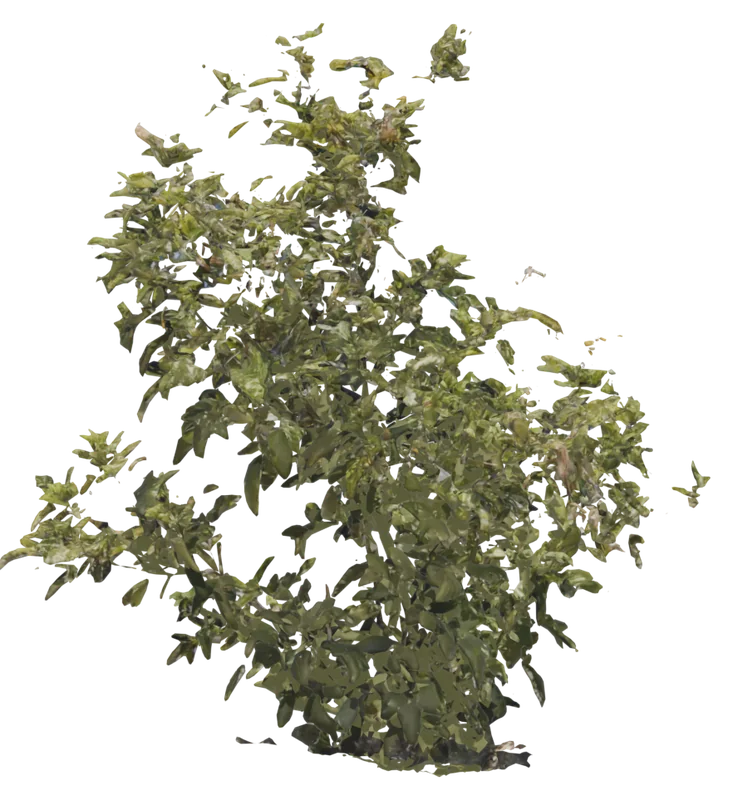
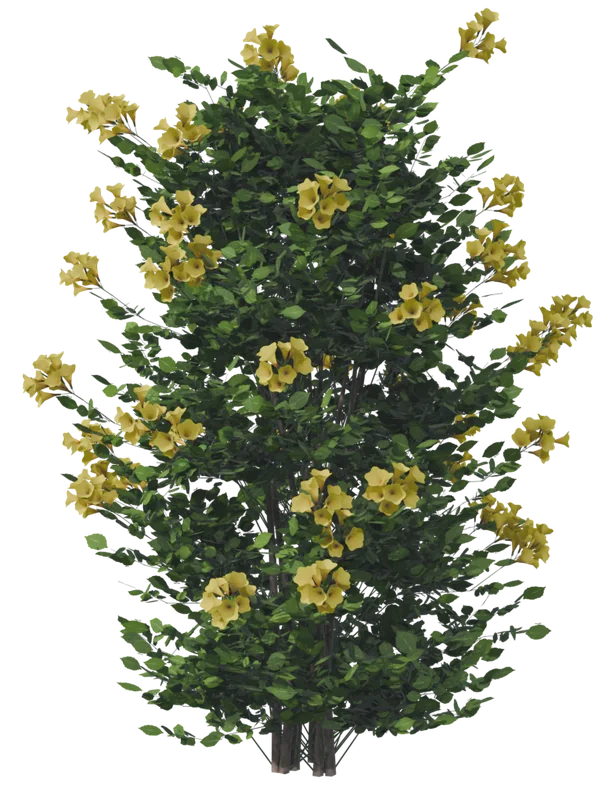
feat: catalog follows the V1 trim — eight plants off the shelves
The app cut Desert Willow, Desert Ironwood, Leatherleaf Acacia, Mexican Fan
Palm, Saguaro, Twin-flowered Agave, Flat Boulder and Gray Boulder for its
App Store build, so the site stops showing them. Their tile renders and
preview cards are deleted with them.

That left two shelves at twelve, under the thirteen a row needs to loop
without visibly repeating, so Madagascar Palm moves to lead the cactus
shelf where the Saguaro was and Yellow Lantana joins the third. 13/13/13.

The export also refreshed the Yellow Bells card: the app's thumbnail moved
to the Sundance model on Sep 28, after the site last exported.

diff --git a/index.html b/index.html
@@ -649,29 +649,23 @@
       <div class="catalog-row" data-marquee data-dir="left" data-speed="40">
         <ul class="catalog-track" data-marquee-track>
           <li class="cat-tile" data-plant="blue-palo-verde"><span class="cat-shot"><img src="assets/catalog/blue-palo-verde.webp" alt="Blue Palo Verde" width="320" height="320" loading="lazy" decoding="async" /></span><span class="cat-name">Blue Palo Verde</span><span class="cat-kind">Tree</span><button type="button" class="cat-more" aria-label="About Blue Palo Verde"></button></li>
-          <li class="cat-tile" data-plant="desert-ironwood"><span class="cat-shot"><img src="assets/catalog/desert-ironwood.webp" alt="Desert Ironwood" width="320" height="320" loading="lazy" decoding="async" /></span><span class="cat-name">Desert Ironwood</span><span class="cat-kind">Tree</span><button type="button" class="cat-more" aria-label="About Desert Ironwood"></button></li>
           <li class="cat-tile" data-plant="honey-mesquite"><span class="cat-shot"><img src="assets/catalog/honey-mesquite.webp" alt="Honey Mesquite" width="320" height="320" loading="lazy" decoding="async" /></span><span class="cat-name">Honey Mesquite</span><span class="cat-kind">Tree</span><button type="button" class="cat-more" aria-label="About Honey Mesquite"></button></li>
           <li class="cat-tile" data-plant="path-light"><span class="cat-shot"><img src="assets/catalog/path-light.webp" alt="Path Light" width="320" height="320" loading="lazy" decoding="async" /></span><span class="cat-name">Path Light</span><span class="cat-kind">Lighting</span><button type="button" class="cat-more" aria-label="About Path Light"></button></li>
-          <li class="cat-tile" data-plant="desert-willow"><span class="cat-shot"><img src="assets/catalog/desert-willow.webp" alt="Desert Willow" width="320" height="320" loading="lazy" decoding="async" /></span><span class="cat-name">Desert Willow</span><span class="cat-kind">Tree</span><button type="button" class="cat-more" aria-label="About Desert Willow"></button></li>
           <li class="cat-tile" data-plant="texas-ebony"><span class="cat-shot"><img src="assets/catalog/texas-ebony.webp" alt="Texas Ebony" width="320" height="320" loading="lazy" decoding="async" /></span><span class="cat-name">Texas Ebony</span><span class="cat-kind">Tree</span><button type="button" class="cat-more" aria-label="About Texas Ebony"></button></li>
           <li class="cat-tile" data-plant="mulga"><span class="cat-shot"><img src="assets/catalog/mulga.webp" alt="Mulga" width="320" height="320" loading="lazy" decoding="async" /><span class="cat-new">New</span></span><span class="cat-name">Mulga</span><span class="cat-kind">Tree</span><button type="button" class="cat-more" aria-label="About Mulga"></button></li>
           <li class="cat-tile" data-plant="chaste-tree"><span class="cat-shot"><img src="assets/catalog/chaste-tree.webp" alt="Chaste Tree" width="320" height="320" loading="lazy" decoding="async" /></span><span class="cat-name">Chaste Tree</span><span class="cat-kind">Tree</span><button type="button" class="cat-more" aria-label="About Chaste Tree"></button></li>
           <li class="cat-tile" data-plant="orange-tree"><span class="cat-shot"><img src="assets/catalog/orange-tree.webp" alt="Orange Tree" width="320" height="320" loading="lazy" decoding="async" /></span><span class="cat-name">Orange Tree</span><span class="cat-kind">Tree</span><button type="button" class="cat-more" aria-label="About Orange Tree"></button></li>
-          <li class="cat-tile" data-plant="leatherleaf-acacia"><span class="cat-shot"><img src="assets/catalog/leatherleaf-acacia.webp" alt="Leatherleaf Acacia" width="320" height="320" loading="lazy" decoding="async" /></span><span class="cat-name">Leatherleaf Acacia</span><span class="cat-kind">Shrub</span><button type="button" class="cat-more" aria-label="About Leatherleaf Acacia"></button></li>
           <li class="cat-tile" data-plant="arizona-boulder"><span class="cat-shot"><img src="assets/catalog/az-boulder.webp" alt="Arizona Boulder" width="320" height="320" loading="lazy" decoding="async" /></span><span class="cat-name">Arizona Boulder</span><span class="cat-kind">Boulder</span><button type="button" class="cat-more" aria-label="About Arizona Boulder"></button></li>
-          <li class="cat-tile" data-plant="mexican-fan-palm"><span class="cat-shot"><img src="assets/catalog/mexican-fan-palm.webp" alt="Mexican Fan Palm" width="320" height="320" loading="lazy" decoding="async" /></span><span class="cat-name">Mexican Fan Palm</span><span class="cat-kind">Palm</span><button type="button" class="cat-more" aria-label="About Mexican Fan Palm"></button></li>
-          <li class="cat-tile" data-plant="madagascar-palm"><span class="cat-shot"><img src="assets/catalog/madagascar-palm.webp" alt="Madagascar Palm" width="320" height="320" loading="lazy" decoding="async" /></span><span class="cat-name">Madagascar Palm</span><span class="cat-kind">Palm</span><button type="button" class="cat-more" aria-label="About Madagascar Palm"></button></li>
           <li class="cat-tile" data-plant="texas-sage"><span class="cat-shot"><img src="assets/catalog/texas-sage.webp" alt="Texas Sage" width="320" height="320" loading="lazy" decoding="async" /></span><span class="cat-name">Texas Sage</span><span class="cat-kind">Shrub</span><button type="button" class="cat-more" aria-label="About Texas Sage"></button></li>
           <li class="cat-tile" data-plant="green-hopseed"><span class="cat-shot"><img src="assets/catalog/green-hopseed.webp" alt="Green Hopseed" width="320" height="320" loading="lazy" decoding="async" /><span class="cat-new">New</span></span><span class="cat-name">Green Hopseed</span><span class="cat-kind">Shrub</span><button type="button" class="cat-more" aria-label="About Green Hopseed"></button></li>
           <li class="cat-tile" data-plant="jojoba"><span class="cat-shot"><img src="assets/catalog/jojoba.webp" alt="Jojoba" width="320" height="320" loading="lazy" decoding="async" /></span><span class="cat-name">Jojoba</span><span class="cat-kind">Shrub</span><button type="button" class="cat-more" aria-label="About Jojoba"></button></li>
           <li class="cat-tile" data-plant="little-john-bottlebrush"><span class="cat-shot"><img src="assets/catalog/little-john-bottlebrush.webp" alt="Little John Bottlebrush" width="320" height="320" loading="lazy" decoding="async" /></span><span class="cat-name">Little John Bottlebrush</span><span class="cat-kind">Shrub</span><button type="button" class="cat-more" aria-label="About Little John Bottlebrush"></button></li>
           <li class="cat-tile" data-plant="yellow-bells"><span class="cat-shot"><img src="assets/catalog/yellow-bells.webp" alt="Yellow Bells" width="320" height="320" loading="lazy" decoding="async" /></span><span class="cat-name">Yellow Bells</span><span class="cat-kind">Shrub</span><button type="button" class="cat-more" aria-label="About Yellow Bells"></button></li>
-          <li class="cat-tile" data-plant="yellow-lantana"><span class="cat-shot"><img src="assets/catalog/yellow-lantana.webp" alt="Yellow Lantana" width="320" height="320" loading="lazy" decoding="async" /></span><span class="cat-name">Yellow Lantana</span><span class="cat-kind">Groundcover</span><button type="button" class="cat-more" aria-label="About Yellow Lantana"></button></li>
         </ul>
       </div>
       <div class="catalog-row" data-marquee data-dir="right" data-speed="24">
         <ul class="catalog-track" data-marquee-track>
-          <li class="cat-tile" data-plant="saguaro"><span class="cat-shot"><img src="assets/catalog/saguaro.webp" alt="Saguaro" width="320" height="320" loading="lazy" decoding="async" /></span><span class="cat-name">Saguaro</span><span class="cat-kind">Cactus</span><button type="button" class="cat-more" aria-label="About Saguaro"></button></li>
+          <li class="cat-tile" data-plant="madagascar-palm"><span class="cat-shot"><img src="assets/catalog/madagascar-palm.webp" alt="Madagascar Palm" width="320" height="320" loading="lazy" decoding="async" /></span><span class="cat-name">Madagascar Palm</span><span class="cat-kind">Palm</span><button type="button" class="cat-more" aria-label="About Madagascar Palm"></button></li>
           <li class="cat-tile" data-plant="organ-pipe"><span class="cat-shot"><img src="assets/catalog/organ-pipe-cactus.webp" alt="Organ Pipe" width="320" height="320" loading="lazy" decoding="async" /></span><span class="cat-name">Organ Pipe</span><span class="cat-kind">Cactus</span><button type="button" class="cat-more" aria-label="About Organ Pipe"></button></li>
           <li class="cat-tile" data-plant="totem-pole"><span class="cat-shot"><img src="assets/catalog/totem-pole-cactus.webp" alt="Totem Pole" width="320" height="320" loading="lazy" decoding="async" /></span><span class="cat-name">Totem Pole</span><span class="cat-kind">Cactus</span><button type="button" class="cat-more" aria-label="About Totem Pole"></button></li>
           <li class="cat-tile" data-plant="mexican-fence-post"><span class="cat-shot"><img src="assets/catalog/mexican-fence-post.webp" alt="Mexican Fence Post" width="320" height="320" loading="lazy" decoding="async" /></span><span class="cat-name">Mexican Fence Post</span><span class="cat-kind">Cactus</span><button type="button" class="cat-more" aria-label="About Mexican Fence Post"></button></li>
@@ -682,10 +676,8 @@
           <li class="cat-tile" data-plant="santa-rita-prickly-pear"><span class="cat-shot"><img src="assets/catalog/santa-rita-prickly-pear.webp" alt="Santa Rita Prickly Pear" width="320" height="320" loading="lazy" decoding="async" /></span><span class="cat-name">Santa Rita Prickly Pear</span><span class="cat-kind">Cactus</span><button type="button" class="cat-more" aria-label="About Santa Rita Prickly Pear"></button></li>
           <li class="cat-tile" data-plant="agave-americana"><span class="cat-shot"><img src="assets/catalog/agave-americana.webp" alt="Agave Americana" width="320" height="320" loading="lazy" decoding="async" /></span><span class="cat-name">Agave Americana</span><span class="cat-kind">Agave</span><button type="button" class="cat-more" aria-label="About Agave Americana"></button></li>
           <li class="cat-tile" data-plant="artichoke-agave"><span class="cat-shot"><img src="assets/catalog/agave-truncata.webp" alt="Artichoke Agave" width="320" height="320" loading="lazy" decoding="async" /><span class="cat-new">New</span></span><span class="cat-name">Artichoke Agave</span><span class="cat-kind">Agave</span><button type="button" class="cat-more" aria-label="About Artichoke Agave"></button></li>
-          <li class="cat-tile" data-plant="flat-boulder"><span class="cat-shot"><img src="assets/catalog/flat-boulder.webp" alt="Flat Boulder" width="320" height="320" loading="lazy" decoding="async" /></span><span class="cat-name">Flat Boulder</span><span class="cat-kind">Boulder</span><button type="button" class="cat-more" aria-label="About Flat Boulder"></button></li>
           <li class="cat-tile" data-plant="blue-glow-agave"><span class="cat-shot"><img src="assets/catalog/blue-glow-agave.webp" alt="Blue Glow Agave" width="320" height="320" loading="lazy" decoding="async" /></span><span class="cat-name">Blue Glow Agave</span><span class="cat-kind">Agave</span><button type="button" class="cat-more" aria-label="About Blue Glow Agave"></button></li>
           <li class="cat-tile" data-plant="black-tip-agave"><span class="cat-shot"><img src="assets/catalog/black-tip-agave.webp" alt="Black Tip Agave" width="320" height="320" loading="lazy" decoding="async" /></span><span class="cat-name">Black Tip Agave</span><span class="cat-kind">Agave</span><button type="button" class="cat-more" aria-label="About Black Tip Agave"></button></li>
-          <li class="cat-tile" data-plant="twin-flowered-agave"><span class="cat-shot"><img src="assets/catalog/agave-geminiflora.webp" alt="Twin-flowered Agave" width="320" height="320" loading="lazy" decoding="async" /></span><span class="cat-name">Twin-flowered Agave</span><span class="cat-kind">Agave</span><button type="button" class="cat-more" aria-label="About Twin-flowered Agave"></button></li>
         </ul>
       </div>
       <div class="catalog-row" data-marquee data-dir="left" data-speed="34">
@@ -698,7 +690,7 @@
           <li class="cat-tile" data-plant="purple-lantana"><span class="cat-shot"><img src="assets/catalog/purple-lantana.webp" alt="Purple Lantana" width="320" height="320" loading="lazy" decoding="async" /></span><span class="cat-name">Purple Lantana</span><span class="cat-kind">Groundcover</span><button type="button" class="cat-more" aria-label="About Purple Lantana"></button></li>
           <li class="cat-tile" data-plant="ocotillo"><span class="cat-shot"><img src="assets/catalog/ocotillo.webp" alt="Ocotillo" width="320" height="320" loading="lazy" decoding="async" /></span><span class="cat-name">Ocotillo</span><span class="cat-kind">Shrub</span><button type="button" class="cat-more" aria-label="About Ocotillo"></button></li>
           <li class="cat-tile" data-plant="aloe-ferox"><span class="cat-shot"><img src="assets/catalog/aloe-ferox.webp" alt="Aloe Ferox" width="320" height="320" loading="lazy" decoding="async" /></span><span class="cat-name">Aloe Ferox</span><span class="cat-kind">Succulent</span><button type="button" class="cat-more" aria-label="About Aloe Ferox"></button></li>
-          <li class="cat-tile" data-plant="gray-boulder"><span class="cat-shot"><img src="assets/catalog/gray-boulder.webp" alt="Gray Boulder" width="320" height="320" loading="lazy" decoding="async" /></span><span class="cat-name">Gray Boulder</span><span class="cat-kind">Boulder</span><button type="button" class="cat-more" aria-label="About Gray Boulder"></button></li>
+          <li class="cat-tile" data-plant="yellow-lantana"><span class="cat-shot"><img src="assets/catalog/yellow-lantana.webp" alt="Yellow Lantana" width="320" height="320" loading="lazy" decoding="async" /></span><span class="cat-name">Yellow Lantana</span><span class="cat-kind">Groundcover</span><button type="button" class="cat-more" aria-label="About Yellow Lantana"></button></li>
           <li class="cat-tile" data-plant="moroccan-mound"><span class="cat-shot"><img src="assets/catalog/moroccan-mound.webp" alt="Moroccan Mound" width="320" height="320" loading="lazy" decoding="async" /></span><span class="cat-name">Moroccan Mound</span><span class="cat-kind">Succulent</span><button type="button" class="cat-more" aria-label="About Moroccan Mound"></button></li>
           <li class="cat-tile" data-plant="tropical-agave"><span class="cat-shot"><img src="assets/catalog/tropical-agave.webp" alt="Tropical Agave" width="320" height="320" loading="lazy" decoding="async" /></span><span class="cat-name">Tropical Agave</span><span class="cat-kind">Agave</span><button type="button" class="cat-more" aria-label="About Tropical Agave"></button></li>
           <li class="cat-tile" data-plant="firestick"><span class="cat-shot"><img src="assets/catalog/firestick.webp" alt="Firestick" width="320" height="320" loading="lazy" decoding="async" /></span><span class="cat-name">Firestick</span><span class="cat-kind">Succulent</span><button type="button" class="cat-more" aria-label="About Firestick"></button></li>

diff --git a/tools/export_catalog.py b/tools/export_catalog.py
@@ -46,18 +46,17 @@ SITE_OVERRIDES = {
     "Totem Pole Cactus":    {"name": "Totem Pole", "image": "totem-pole-cactus"},
     "Organ Pipe Cactus":    {"name": "Organ Pipe", "image": "organ-pipe-cactus"},
     "Agave Truncata":       {"name": "Artichoke Agave", "image": "agave-truncata"},
-    "Agave Geminiflora":    {"name": "Twin-flowered Agave", "image": "agave-geminiflora"},
     "AZ Boulder 1":         {"name": "Arizona Boulder", "image": "az-boulder"},
     "Landscape Uplight":    {"name": "Uplight"},
 }
 
 KIND = {
-    "Mexican Fan Palm": "Palm", "Madagascar Palm": "Palm",
-    "Saguaro": "Cactus", "Organ Pipe Cactus": "Cactus", "Totem Pole Cactus": "Cactus",
+    "Madagascar Palm": "Palm",
+    "Organ Pipe Cactus": "Cactus", "Totem Pole Cactus": "Cactus",
     "Mexican Fence Post": "Cactus", "Argentine Toothpick": "Cactus", "Golden Barrel Cactus": "Cactus",
     "Fire Barrel Cactus": "Cactus", "Santa Rita Prickly Pear": "Cactus",
     "Agave Americana": "Agave", "Agave Truncata": "Agave", "Blue Glow Agave": "Agave",
-    "Black Tip Agave": "Agave", "Agave Geminiflora": "Agave", "Tropical Agave": "Agave",
+    "Black Tip Agave": "Agave", "Tropical Agave": "Agave",
     "Desert Spoon": "Accent", "Red Yucca": "Accent", "Beaked Yucca": "Yucca",
     "Ocotillo": "Shrub",
     "Aloe Vera": "Succulent", "Aloe Ferox": "Succulent", "Moroccan Mound": "Succulent", "Firestick": "Succulent",
@@ -76,17 +75,17 @@ PHOTO_TILES = set()
 # it. Anything in neither set gets no badge (legacy entries whose provenance
 # isn't recorded in the Swift comments; fill them in as you confirm them).
 MODELLED = {
-    "Blue Palo Verde", "Chaste Tree", "Beaked Yucca", "Agave Geminiflora",   # purchased models
+    "Blue Palo Verde", "Chaste Tree", "Beaked Yucca",                        # purchased models
     "Texas Ebony", "Mulga", "Desert Spoon", "Green Hopseed", "Ocotillo",      # generated (Sep 2026)
     "Aloe Vera", "Mexican Fence Post", "Orange Tree",                         # .blend marketplace models
-    "Saguaro", "Honey Mesquite", "Mexican Fan Palm",                          # confirmed Sep 2026
+    "Honey Mesquite",                                                         # confirmed Sep 2026
     "Argentine Toothpick", "Red Yucca",
 }
 SCANNED = {
     "Agave Americana", "Golden Barrel Cactus", "AZ Boulder 1", "Totem Pole Cactus", "Organ Pipe Cactus",
     "Agave Truncata", "Tropical Agave", "Fire Barrel Cactus", "Yellow Bells", "Firestick",
     "Little John Bottlebrush", "Moroccan Mound", "Santa Rita Prickly Pear", "Madagascar Palm",
-    "Black Tip Agave", "Desert Willow", "Desert Ironwood", "Jojoba", "Leatherleaf Acacia",
+    "Black Tip Agave", "Jojoba",
     "White Dawn Lantana", "Purple Lantana", "Yellow Lantana", "Texas Sage", "Aloe Ferox", "Blue Glow Agave",
 }
 
@@ -101,17 +100,16 @@ NEW = {"Green Hopseed", "Desert Spoon", "Mulga", "Artichoke Agave"}
 # the loop doesn't visibly repeat on a wide screen.
 ROWS = [
     {"dir": "left", "speed": 40, "tiles": [
-        "Blue Palo Verde", "Desert Ironwood", "Honey Mesquite", "Path Light", "Desert Willow", "Texas Ebony",
-        "Mulga", "Chaste Tree", "Orange Tree", "Leatherleaf Acacia", "Arizona Boulder", "Mexican Fan Palm",
-        "Madagascar Palm", "Texas Sage", "Green Hopseed", "Jojoba", "Little John Bottlebrush", "Yellow Bells",
-        "Yellow Lantana"]},
+        "Blue Palo Verde", "Honey Mesquite", "Path Light", "Texas Ebony", "Mulga", "Chaste Tree",
+        "Orange Tree", "Arizona Boulder", "Texas Sage", "Green Hopseed", "Jojoba", "Little John Bottlebrush",
+        "Yellow Bells"]},
     {"dir": "right", "speed": 24, "tiles": [
-        "Saguaro", "Organ Pipe", "Totem Pole", "Mexican Fence Post", "Uplight", "Argentine Toothpick",
+        "Madagascar Palm", "Organ Pipe", "Totem Pole", "Mexican Fence Post", "Uplight", "Argentine Toothpick",
         "Golden Barrel", "Fire Barrel", "Santa Rita Prickly Pear", "Agave Americana", "Artichoke Agave",
-        "Flat Boulder", "Blue Glow Agave", "Black Tip Agave", "Twin-flowered Agave"]},
+        "Blue Glow Agave", "Black Tip Agave"]},
     {"dir": "left", "speed": 34, "tiles": [
         "Desert Spoon", "Red Yucca", "Flood Light", "Beaked Yucca", "Aloe Vera", "Purple Lantana", "Ocotillo",
-        "Aloe Ferox", "Gray Boulder", "Moroccan Mound", "Tropical Agave", "Firestick", "White Dawn Lantana"]},
+        "Aloe Ferox", "Yellow Lantana", "Moroccan Mound", "Tropical Agave", "Firestick", "White Dawn Lantana"]},
 ]
 
 SIZE_LABEL = {
